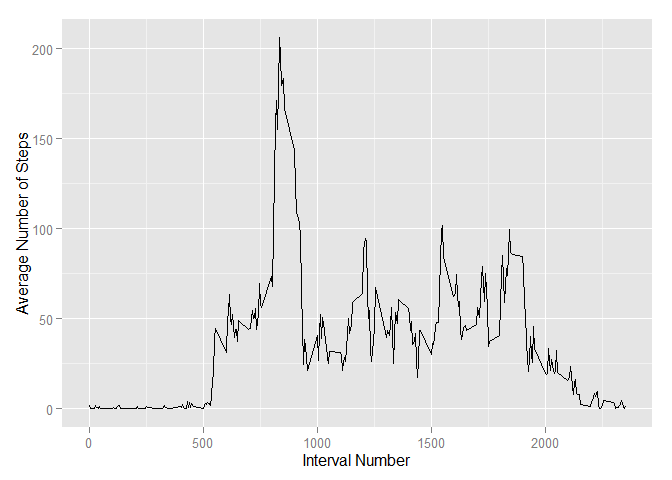
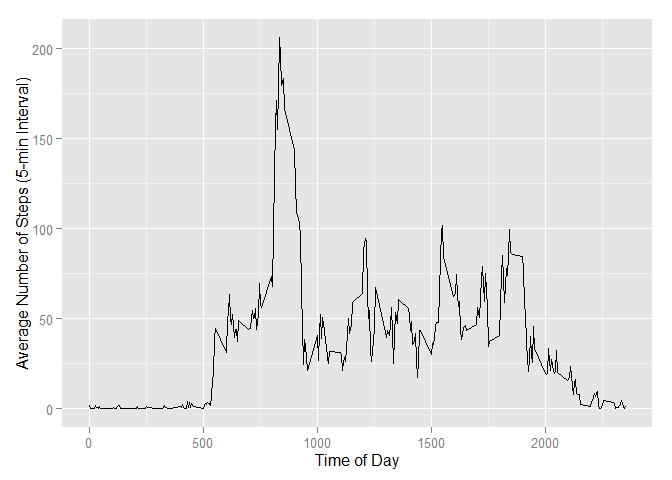
Added R code for understanding distribution of missing (NA) values

Changed region(s): [[0.0, 0.1562, 0.0625, 0.7812], [0.4375, 0.9375, 0.625, 0.9688]]

diff --git a/PA1_template.html b/PA1_template.html
@@ -84,15 +84,23 @@ h + labs(x = &quot;Daily Total Steps&quot;, y = &quot;Number of Days&quot;, fill
 <h2>What is the average daily activity pattern?</h2>
 <pre class="r"><code>meanStepsByInterval &lt;- aggregate(steps ~ interval, activityData, mean)
 p &lt;- qplot(interval, steps, data=meanStepsByInterval, geom = &quot;line&quot;)
-p + labs(x = &quot;Interval Number&quot;, y = &quot;Average Number of Steps&quot;)</code></pre>
[1 lines of base64/hex data omitted]
+p + labs(x = &quot;Time of Day&quot;, y = &quot;Average Number of Steps (5-min Interval)&quot;)</code></pre>
[1 lines of base64/hex data omitted]
 <pre class="r"><code>with(meanStepsByInterval, interval[which.max(steps)])</code></pre>
 <pre><code>## [1] 835</code></pre>
 </div>
 <div id="imputing-missing-values" class="section level2">
 <h2>Imputing missing values</h2>
-<pre class="r"><code>sum(is.na(activityData$steps))</code></pre>
-<pre><code>## [1] 2304</code></pre>
+<pre class="r"><code>colSums(is.na(activityData))</code></pre>
+<pre><code>##    steps     date interval 
+##     2304        0        0</code></pre>
+<pre class="r"><code>datesMissingSteps &lt;- with(activityData, unique(date[is.na(steps)]))
+datesMissingSteps</code></pre>
+<pre><code>## [1] &quot;2012-10-01&quot; &quot;2012-10-08&quot; &quot;2012-11-01&quot; &quot;2012-11-04&quot; &quot;2012-11-09&quot;
+## [6] &quot;2012-11-10&quot; &quot;2012-11-14&quot; &quot;2012-11-30&quot;</code></pre>
+<pre class="r"><code>datesHavingSteps &lt;- with(activityData, unique(date[!is.na(steps)]))
+datesMissingSteps %in% datesHavingSteps</code></pre>
+<pre><code>## [1] FALSE FALSE FALSE FALSE FALSE FALSE FALSE FALSE</code></pre>
 <pre class="r"><code>names(meanStepsByInterval)[2] &lt;- &quot;meanSteps&quot;
 imputedData &lt;- merge(activityData, meanStepsByInterval)
 imputedData$steps[is.na(imputedData$steps)] &lt;- imputedData$meanSteps[is.na(imputedData$steps)]</code></pre>
@@ -114,8 +122,8 @@ h2 + labs(x = &quot;Daily Total Steps&quot;, y = &quot;Number of Days&quot;, fil
                                      &quot;Weekend&quot;, &quot;Weekday&quot;))
 meanByDayIntvl &lt;- aggregate(steps ~ interval + dayType, imputedData, mean)
 p2 &lt;- qplot(interval, steps, data=meanByDayIntvl, geom = &quot;line&quot;, facets = dayType ~ .)
-p2 + labs(x = &quot;Interval Number&quot;, y = &quot;Average Number of Steps&quot;)</code></pre>
[1 lines of base64/hex data omitted]
+p2 + labs(x = &quot;Time of Day&quot;, y = &quot;Average Number of Steps (5-min Interval)&quot;)</code></pre>
[1 lines of base64/hex data omitted]
 </div>
 
 

diff --git a/PA1_template.md b/PA1_template.md
@@ -44,7 +44,7 @@ with(stepsByDay, data.frame(Mean = mean(steps), Median = median(steps), row.name
 ```r
 meanStepsByInterval <- aggregate(steps ~ interval, activityData, mean)
 p <- qplot(interval, steps, data=meanStepsByInterval, geom = "line")
-p + labs(x = "Interval Number", y = "Average Number of Steps")
+p + labs(x = "Time of Day", y = "Average Number of Steps (5-min Interval)")
 ```
 
 ![](PA1_template_files/figure-html/unnamed-chunk-5-1.png) 
@@ -62,11 +62,32 @@ with(meanStepsByInterval, interval[which.max(steps)])
 
 
 ```r
-sum(is.na(activityData$steps))
+colSums(is.na(activityData))
 ```
 
 ```
-## [1] 2304
+##    steps     date interval 
+##     2304        0        0
+```
+
+
+```r
+datesMissingSteps <- with(activityData, unique(date[is.na(steps)]))
+datesMissingSteps
+```
+
+```
+## [1] "2012-10-01" "2012-10-08" "2012-11-01" "2012-11-04" "2012-11-09"
+## [6] "2012-11-10" "2012-11-14" "2012-11-30"
+```
+
+```r
+datesHavingSteps <- with(activityData, unique(date[!is.na(steps)]))
+datesMissingSteps %in% datesHavingSteps
+```
+
+```
+## [1] FALSE FALSE FALSE FALSE FALSE FALSE FALSE FALSE
 ```
 
 
@@ -83,7 +104,7 @@ h2 <- ggplot(stepsByDayImputed, aes(x = steps)) + geom_histogram(binwidth = 2500
 h2 + labs(x = "Daily Total Steps", y = "Number of Days", fill = "Number of Days")
 ```
 
-![](PA1_template_files/figure-html/unnamed-chunk-9-1.png) 
+![](PA1_template_files/figure-html/unnamed-chunk-10-1.png) 
 
 
 ```r
@@ -108,8 +129,8 @@ imputedData$dayType <- factor(ifelse(weekdays(imputedData$date) %in% c("Saturday
                                      "Weekend", "Weekday"))
 meanByDayIntvl <- aggregate(steps ~ interval + dayType, imputedData, mean)
 p2 <- qplot(interval, steps, data=meanByDayIntvl, geom = "line", facets = dayType ~ .)
-p2 + labs(x = "Interval Number", y = "Average Number of Steps")
+p2 + labs(x = "Time of Day", y = "Average Number of Steps (5-min Interval)")
 ```
 
-![](PA1_template_files/figure-html/unnamed-chunk-11-1.png) 
+![](PA1_template_files/figure-html/unnamed-chunk-12-1.png) 
 
